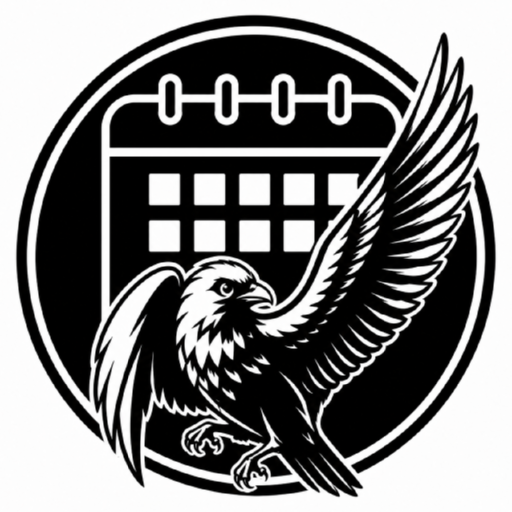
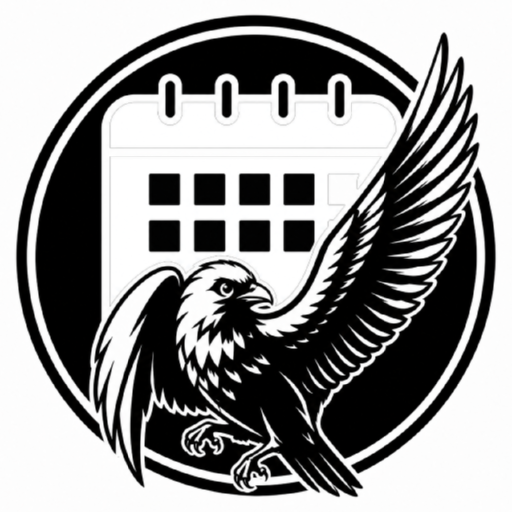
Белым сделан только календарь, остальной логотип не тронут
Прошлая правка перекрасила весь рисунок — это было лишним. Птица, круг
и подложка возвращены как были, перекрашен только календарь.

По цвету он неотличим от птицы: обе фигуры чёрные с белой обводкой.
Но обводка делает календарь отдельной связной областью, поэтому заливка
от точки внутри него на птицу не переходит. Клетки внутри найдены
от обратного — как светлые островки, не достающие до краёв картинки.

Changed region(s): [[0.1875, 0.1875, 0.7812, 0.5938]]

diff --git a/store/make-icons.js b/store/make-icons.js
@@ -215,6 +215,64 @@ function pageMask(img) {
   return page;
 }
 
+/**
+ * Область календаря. По цвету он неотличим от птицы — обе фигуры чёрные
+ * с белой обводкой. Зато обводка делает календарь отдельной связной
+ * областью: заливка от точки внутри него упирается в белые линии и на
+ * птицу не переходит. Точки взяты из разбора (store/analyze-logo.js):
+ * первая в шапке, вторая в поле с клетками — их разделяет белая линия.
+ */
+const CALENDAR_SEEDS = [[420, 330], [340, 420]];
+
+function calendarMask(img) {
+  const { width, height, data } = img;
+  const isDark = i => {
+    const d = i * 3;
+    return data[d] * 0.299 + data[d + 1] * 0.587 + data[d + 2] * 0.114 < 128;
+  };
+
+  const zone = new Uint8Array(width * height);
+  for (const [sx, sy] of CALENDAR_SEEDS) {
+    const start = sy * width + sx;
+    if (!isDark(start) || zone[start]) continue;
+    const stack = [start];
+    zone[start] = 1;
+    let count = 0;
+    while (stack.length) {
+      const i = stack.pop();
+      count++;
+      const x = i % width, y = (i / width) | 0;
+      const push = j => { if (!zone[j] && isDark(j)) { zone[j] = 1; stack.push(j); } };
+      if (x > 0) push(i - 1);
+      if (x < width - 1) push(i + 1);
+      if (y > 0) push(i - width);
+      if (y < height - 1) push(i + width);
+    }
+    if (count > width * height * 0.25) {
+      throw new Error('заливка календаря разлилась по рисунку — проверьте CALENDAR_SEEDS');
+    }
+  }
+
+  // Клетки — светлые островки внутри залитого. Находим их от обратного:
+  // помечаем всё, до чего можно дойти от краёв, минуя залитое.
+  const outside = new Uint8Array(width * height);
+  const queue = [];
+  const open = j => { if (!outside[j] && !zone[j]) { outside[j] = 1; queue.push(j); } };
+  for (let x = 0; x < width; x++) { open(x); open((height - 1) * width + x); }
+  for (let y = 0; y < height; y++) { open(y * width); open(y * width + width - 1); }
+  while (queue.length) {
+    const i = queue.pop();
+    const x = i % width, y = (i / width) | 0;
+    if (x > 0) open(i - 1);
+    if (x < width - 1) open(i + 1);
+    if (y > 0) open(i - width);
+    if (y < height - 1) open(i + width);
+  }
+  for (let i = 0; i < zone.length; i++) if (!zone[i] && !outside[i]) zone[i] = 1;
+
+  return zone;
+}
+
 /* ---------------- отрисовка ---------------- */
 
 /**
@@ -224,7 +282,7 @@ function pageMask(img) {
  * @param alpha     прозрачный фон вместо белого
  * @param circle    обрезать по кругу (для round-иконки)
  */
-function render(img, page, cx, cy, halfSpan, size, mode, circle) {
+function render(img, page, cal, cx, cy, halfSpan, size, mode, circle) {
   const alpha = mode === 'cutout' || mode === 'invert';
   const ch = alpha ? 4 : 3;
   const out = Buffer.alloc(size * size * ch);
@@ -244,7 +302,12 @@ function render(img, page, cx, cy, halfSpan, size, mode, circle) {
       for (let yy = c0; yy <= c1; yy++) {
         for (let xx = r0; xx <= r1; xx++) {
           const i = yy * img.width + xx, d = i * 3;
-          r += img.data[d]; g += img.data[d + 1]; b += img.data[d + 2];
+          // Внутри календаря цвета переворачиваем: корпус становится белым,
+          // клетки — чёрными. Остальной логотип остаётся как есть.
+          const flip = cal && cal[i];
+          r += flip ? 255 - img.data[d]     : img.data[d];
+          g += flip ? 255 - img.data[d + 1] : img.data[d + 1];
+          b += flip ? 255 - img.data[d + 2] : img.data[d + 2];
           onPage += page[i];
           n++;
         }
@@ -296,6 +359,7 @@ function write(file, buf) {
 
 const img = decodePNG(fs.readFileSync(SRC));
 const page = pageMask(img);
+const cal = calendarMask(img);
 const c = inkCircle(img);
 console.log(`источник: ${img.width}×${img.height}`);
 console.log(`рисунок: центр (${c.cx.toFixed(0)}, ${c.cy.toFixed(0)}), радиус ${c.radius.toFixed(0)} px`);
@@ -315,7 +379,9 @@ const top = Object.entries(dark).sort((a, b) => b[1] - a[1])[0];
 const [dr, dg, db] = top[0].split(',').map(Number);
 const hex = '#' + [dr, dg, db].map(v => v.toString(16).padStart(2, '0')).join('').toUpperCase();
 console.log(`основной тёмный цвет логотипа: ${hex} (${top[1]} точек) — такой должна быть подложка`);
-console.log(`доля страницы: ${(page.reduce((s, v) => s + v, 0) / page.length * 100).toFixed(0)}%\n`);
+console.log(`доля страницы: ${(page.reduce((s, v) => s + v, 0) / page.length * 100).toFixed(0)}%`);
+const calCount = cal.reduce((s, v) => s + v, 0);
+console.log(`область календаря: ${calCount} точек (${(calCount / cal.length * 100).toFixed(1)}% картинки)\n`);
 
 const res = p => path.join(ROOT, 'android/app/src/main/res', p);
 const done = [];
@@ -327,7 +393,7 @@ const SAFE = 0.64;
 const fgSpan = c.radius / SAFE;
 for (const [dir, size] of [['mdpi', 108], ['hdpi', 162], ['xhdpi', 216], ['xxhdpi', 324], ['xxxhdpi', 432]]) {
   done.push(write(res(`mipmap-${dir}/ic_launcher_foreground.png`),
-    encodePNG(render(img, page, c.cx, c.cy, fgSpan, size, 'invert', false), size, true)));
+    encodePNG(render(img, page, cal, c.cx, c.cy, fgSpan, size, 'cutout', false), size, true)));
 }
 
 // Квадратные иконки маска не режет, поэтому центруем по габаритам рисунка,
@@ -341,7 +407,7 @@ const boxHalf = Math.max(c.box.x1 - c.box.x0, c.box.y1 - c.box.y0) / 2;
 // обрезаем по кругу — иначе получится логотип в белом квадрате.
 const legacySpan = c.radius / 0.96;
 for (const [dir, size] of [['mdpi', 48], ['hdpi', 72], ['xhdpi', 96], ['xxhdpi', 144], ['xxxhdpi', 192]]) {
-  const round = encodePNG(render(img, page, c.cx, c.cy, legacySpan, size, 'invert', true), size, true);
+  const round = encodePNG(render(img, page, cal, c.cx, c.cy, legacySpan, size, 'cutout', true), size, true);
   done.push(write(res(`mipmap-${dir}/ic_launcher.png`), round));
   done.push(write(res(`mipmap-${dir}/ic_launcher_round.png`), round));
 }
@@ -350,12 +416,12 @@ for (const [dir, size] of [['mdpi', 48], ['hdpi', 72], ['xhdpi', 96], ['xxhdpi',
 // логотип целиком на чёрном, без белой страницы вокруг
 const storeSpan = boxHalf / 0.94;
 done.push(write(path.join(__dirname, 'icon-512.png'),
-  encodePNG(render(img, page, bx, by, storeSpan, 512, 'invert-dark', false), 512, false)));
+  encodePNG(render(img, page, cal, bx, by, storeSpan, 512, 'dark', false), 512, false)));
 done.push(write(path.join(ROOT, 'www/icon-192.png'),
-  encodePNG(render(img, page, bx, by, storeSpan, 192, 'invert-dark', false), 192, false)));
+  encodePNG(render(img, page, cal, bx, by, storeSpan, 192, 'dark', false), 192, false)));
 
 // Исходный вид на белом — пригодится для документов и печати
 done.push(write(path.join(__dirname, 'icon-512-white.png'),
-  encodePNG(render(img, page, bx, by, storeSpan, 512, 'opaque', false), 512, false)));
+  encodePNG(render(img, page, cal, bx, by, storeSpan, 512, 'opaque', false), 512, false)));
 
 console.log(done.join('\n'));

diff --git a/store/analyze-logo.js b/store/analyze-logo.js
@@ -1,0 +1,95 @@
+/* Разбор логотипа на связные тёмные области: можно ли отделить
+   календарь от птицы и круга. Запуск: node store/analyze-logo.js */
+
+const fs = require('fs');
+const zlib = require('zlib');
+const path = require('path');
+
+function decode(buf) {
+  let pos = 8, w = 0, h = 0, color = 0;
+  const idat = [];
+  while (pos < buf.length) {
+    const len = buf.readUInt32BE(pos);
+    const type = buf.toString('ascii', pos + 4, pos + 8);
+    const data = buf.subarray(pos + 8, pos + 8 + len);
+    if (type === 'IHDR') { w = data.readUInt32BE(0); h = data.readUInt32BE(4); color = data[9]; }
+    else if (type === 'IDAT') idat.push(data);
+    else if (type === 'IEND') break;
+    pos += 12 + len;
+  }
+  const ch = color === 6 ? 4 : 3;
+  const stride = w * ch;
+  const raw = zlib.inflateSync(Buffer.concat(idat));
+  const px = Buffer.alloc(w * h * ch);
+  let prev = Buffer.alloc(stride);
+  for (let y = 0; y < h; y++) {
+    const f = raw[y * (stride + 1)];
+    const line = Buffer.from(raw.subarray(y * (stride + 1) + 1, (y + 1) * (stride + 1)));
+    for (let i = 0; i < stride; i++) {
+      const a = i >= ch ? line[i - ch] : 0, b = prev[i], c = i >= ch ? prev[i - ch] : 0;
+      let v = line[i];
+      if (f === 1) v += a; else if (f === 2) v += b; else if (f === 3) v += (a + b) >> 1;
+      else if (f === 4) {
+        const p = a + b - c, pa = Math.abs(p - a), pb = Math.abs(p - b), pc = Math.abs(p - c);
+        v += (pa <= pb && pa <= pc) ? a : (pb <= pc ? b : c);
+      }
+      line[i] = v & 0xFF;
+    }
+    prev = line;
+    line.copy(px, y * stride);
+  }
+  return { w, h, ch, px };
+}
+
+const img = decode(fs.readFileSync(path.join(__dirname, 'logo-source.png')));
+const { w, h, ch, px } = img;
+
+const dark = new Uint8Array(w * h);
+for (let i = 0; i < w * h; i++) {
+  const d = i * ch;
+  const lum = px[d] * 0.299 + px[d + 1] * 0.587 + px[d + 2] * 0.114;
+  dark[i] = lum < 128 ? 1 : 0;
+}
+
+const label = new Int32Array(w * h).fill(-1);
+const regions = [];
+
+for (let start = 0; start < w * h; start++) {
+  if (!dark[start] || label[start] >= 0) continue;
+  const id = regions.length;
+  const stack = [start];
+  label[start] = id;
+  let count = 0, x0 = w, y0 = h, x1 = -1, y1 = -1;
+
+  while (stack.length) {
+    const i = stack.pop();
+    const x = i % w, y = (i / w) | 0;
+    count++;
+    if (x < x0) x0 = x; if (x > x1) x1 = x;
+    if (y < y0) y0 = y; if (y > y1) y1 = y;
+    if (x > 0 && dark[i - 1] && label[i - 1] < 0) { label[i - 1] = id; stack.push(i - 1); }
+    if (x < w - 1 && dark[i + 1] && label[i + 1] < 0) { label[i + 1] = id; stack.push(i + 1); }
+    if (y > 0 && dark[i - w] && label[i - w] < 0) { label[i - w] = id; stack.push(i - w); }
+    if (y < h - 1 && dark[i + w] && label[i + w] < 0) { label[i + w] = id; stack.push(i + w); }
+  }
+  regions.push({ id, count, x0, y0, x1, y1 });
+}
+
+regions.sort((a, b) => b.count - a.count);
+console.log(`тёмных областей всего: ${regions.length}\n`);
+console.log('крупнейшие:');
+regions.slice(0, 8).forEach((r, n) => {
+  const share = (r.count / (w * h) * 100).toFixed(1);
+  console.log(`  ${n + 1}. точек ${r.count} (${share}% картинки), рамка x ${r.x0}..${r.x1}, y ${r.y0}..${r.y1}`);
+});
+
+// Что лежит в предполагаемой зоне календаря — левее и выше птицы
+const probe = [[420, 330], [380, 300], [500, 280], [340, 420]];
+console.log('\nпробы в области календаря:');
+probe.forEach(([x, y]) => {
+  const i = y * w + x;
+  const id = label[i];
+  const r = id >= 0 ? regions.find(z => z.id === id) : null;
+  console.log(`  (${x}, ${y}): ${dark[i] ? 'тёмная' : 'светлая'} точка` +
+    (r ? `, область из ${r.count} точек, рамка x ${r.x0}..${r.x1}, y ${r.y0}..${r.y1}` : ''));
+});
